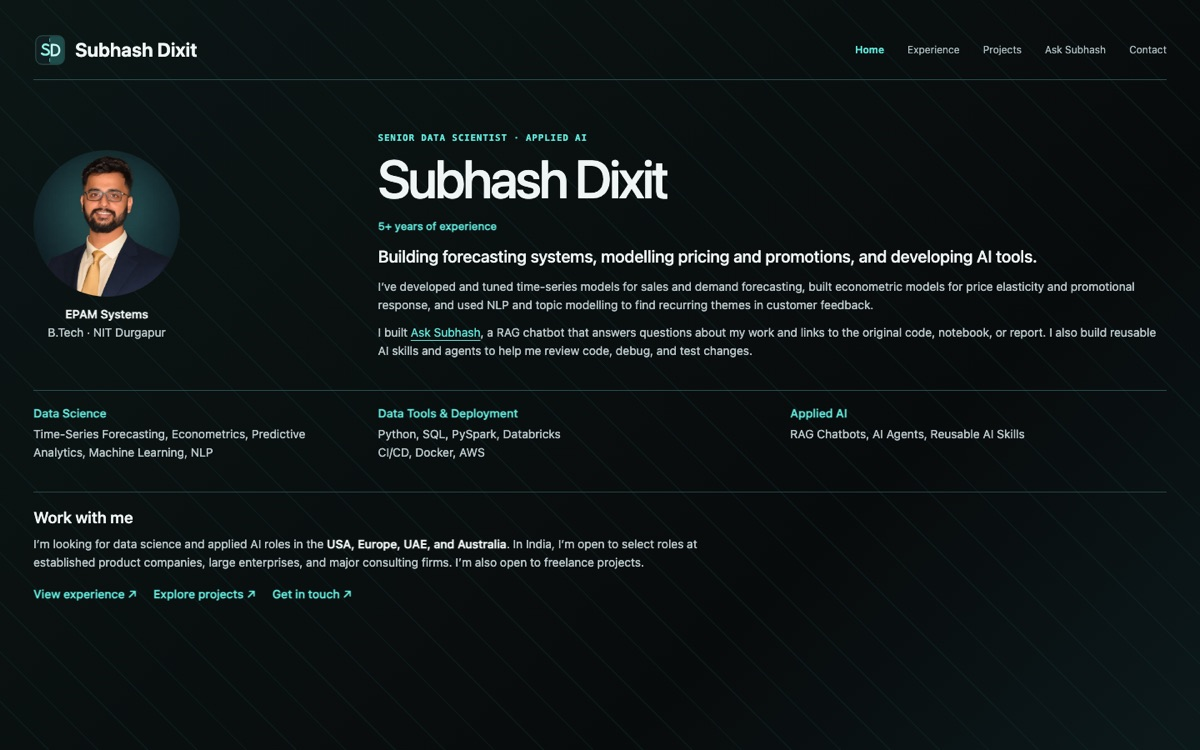
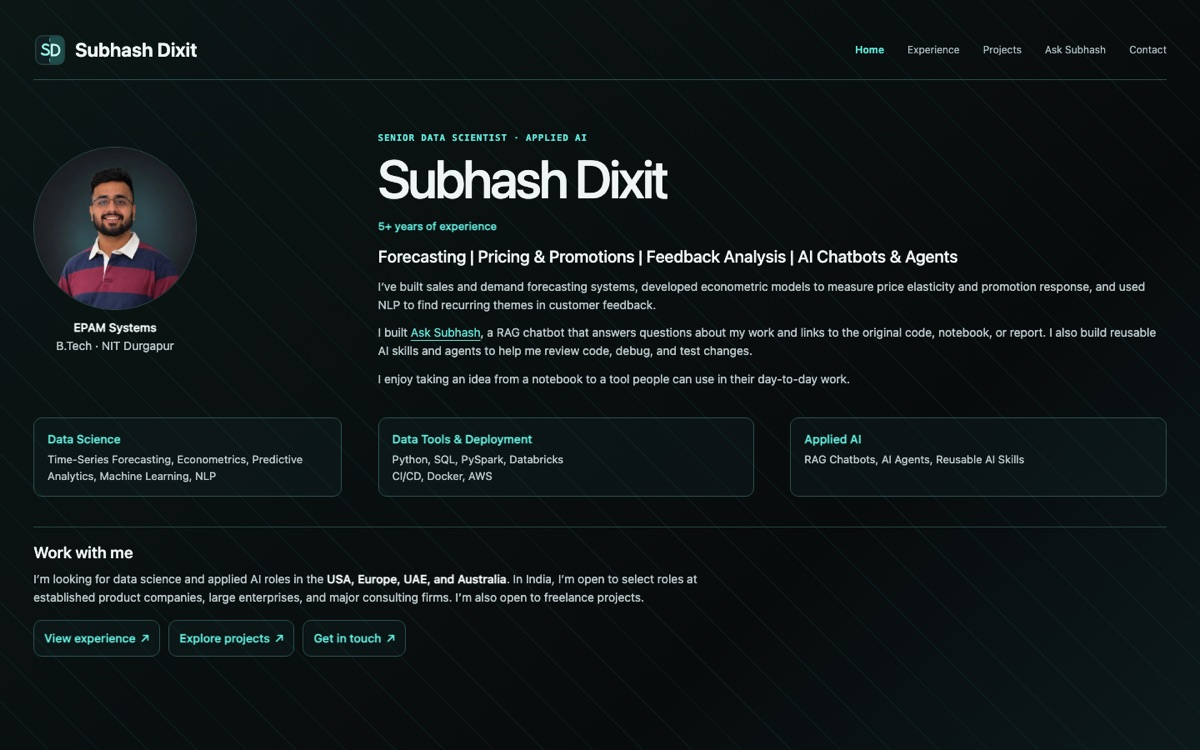
Publish reviewed homepage and update deployment guide

diff --git a/src/App.css b/src/App.css
@@ -63,7 +63,7 @@
   display: none;
 }
 
-@media (max-width: 1023px) {
+@media (width < 1024px) {
   .loop-header {
     position: relative;
     gap: 10px;
@@ -192,7 +192,7 @@ a.loop-card:hover {
 }
 
 .loop-intro.loop-home {
-  --home-portrait-size: 176px;
+  --home-portrait-size: 196px;
   display: grid;
   row-gap: clamp(24px, 3vw, 36px);
   padding-top: clamp(28px, 4.5vw, 62px);
@@ -256,6 +256,7 @@ a.loop-card:hover {
   width: 100%;
   height: auto;
   aspect-ratio: 1;
+  border: 1px solid var(--loop-border);
   border-radius: 50%;
   object-fit: cover;
 }
@@ -263,10 +264,18 @@ a.loop-card:hover {
 .loop-home-skills {
   grid-area: skills;
   display: grid;
-  grid-template-columns: repeat(auto-fit, minmax(min(100%, 210px), 1fr));
-  gap: 12px 28px;
-  padding-block: 16px 0;
-  border-top: 1px solid var(--loop-border);
+  gap: 12px;
+}
+
+.loop-home-skills > div,
+.loop-home-links a {
+  border: 1px solid var(--loop-border);
+  border-radius: 10px;
+  background: rgb(22 48 46 / 24%);
+}
+
+.loop-home-skills > div {
+  padding: 14px 16px;
 }
 
 .loop-home-skills dt {
@@ -278,6 +287,12 @@ a.loop-card:hover {
 .loop-home-skills dd,
 .loop-home-work p {
   color: var(--loop-muted);
+}
+
+.loop-home-skills dd {
+  font-size: 13px;
+  font-weight: 400;
+  line-height: 1.5;
 }
 
 .loop-home-work {
@@ -315,18 +330,34 @@ a.loop-card:hover {
   display: flex;
   flex-wrap: wrap;
   align-items: center;
-  gap: 10px 20px;
+  gap: 10px;
   margin-top: 16px;
   font-weight: 550;
 }
 
-.loop-home-links a:hover {
-  text-decoration: underline;
+.loop-home-links a {
+  display: inline-flex;
+  align-items: center;
+  gap: 6px;
+  min-height: 44px;
+  padding: 7px 12px;
+}
+
+.loop-home-links a:hover,
+.loop-home-links a:focus-visible {
+  border-color: var(--loop-accent);
+  background: rgb(22 48 46 / 50%);
+}
+
+@media (min-width: 640px) {
+  .loop-home-skills {
+    grid-template-columns: repeat(3, minmax(0, 1fr));
+  }
 }
 
 @media (width < 740px) {
   .loop-intro.loop-home {
-    --home-portrait-size: clamp(84px, 14vw, 104px);
+    --home-portrait-size: clamp(84px, 15vw, 110px);
     --home-portrait-gap: clamp(22px, 6vw, 44px);
     grid-template-areas:
       "identity profile"
@@ -384,6 +415,10 @@ a.loop-card:hover {
     grid-template-columns: clamp(150px, 22vw, 224px) minmax(0, 1fr);
     column-gap: clamp(48px, 7vw, 70px);
   }
+  .loop-home-profile {
+    align-self: start;
+    margin-top: 18px;
+  }
 }
 
 @media (min-width: 900px) {
@@ -404,13 +439,29 @@ a.loop-card:hover {
   }
 }
 
+@media (min-width: 1024px) {
+  .loop-home-summary {
+    container-type: inline-size;
+  }
+
+  .loop-home-summary > .loop-tagline {
+    font-size: clamp(14px, 2.4cqi, 20px);
+    white-space: nowrap;
+  }
+}
+
 @media (min-width: 900px) and (max-height: 820px) {
   .loop-shell:has(.loop-home) {
     padding-block: clamp(16px, 3vh, 28px) clamp(14px, 2.5vh, 24px);
   }
 
   .loop-intro.loop-home {
-    padding-top: clamp(22px, 4vh, 36px);
+    row-gap: 18px;
+    padding-top: clamp(20px, 3.5vh, 30px);
+  }
+
+  .loop-home-skills > div {
+    padding-block: 12px;
   }
 }
 

diff --git a/src/App.jsx b/src/App.jsx
@@ -6,7 +6,7 @@ import Experience from './components/Experience'
 import Skills from './components/Skills'
 import Projects from './components/Projects'
 import Contact from './components/Contact'
-import profileImage from './assets/profile-soft-teal.webp'
+import profileImage from './assets/profile-charcoal-teal.webp'
 import './App.css'
 
 const pages = [
@@ -33,17 +33,18 @@ function Home() {
           <p className="loop-home-tenure">5+ years of experience</p>
         </div>
         <div className="loop-home-summary">
-          <p className="loop-tagline">Building forecasting systems, modelling pricing and promotions, and developing AI tools.</p>
-          <p>I’ve developed and tuned time-series models for sales and demand forecasting, built econometric models for price elasticity and promotional response, and used NLP and topic modelling to find recurring themes in customer feedback.</p>
+          <p className="loop-tagline">Forecasting | Pricing &amp; Promotions | Feedback Analysis | AI Chatbots &amp; Agents</p>
+          <p>I’ve built sales and demand forecasting systems, developed econometric models to measure price elasticity and promotion response, and used NLP to find recurring themes in customer feedback.</p>
           <p id="home-projects">I built <a href="#ai-lab">Ask Subhash</a>, a RAG chatbot that answers questions about my work and links to the original code, notebook, or report. I also build reusable AI skills and agents to help me review code, debug, and test changes.</p>
+          <p>I enjoy taking an idea from a notebook to a tool people can use in their day-to-day work.</p>
         </div>
       </div>
 
       <div className="loop-home-profile">
-        <img className="loop-home-portrait" src={profileImage} alt="Subhash Dixit" width={176} height={176} />
+        <img className="loop-home-portrait" src={profileImage} alt="Subhash Dixit" width={196} height={196} />
         <div className="loop-home-affiliation">
           <p>EPAM Systems</p>
-                  <p>B.Tech · NIT&nbsp;Durgapur</p>
+          <p>B.Tech · NIT&nbsp;Durgapur</p>
         </div>
       </div>
 

diff --git a/README.md b/README.md
@@ -98,10 +98,20 @@ The Pages workflow runs `npm run lint` and `npm run build`. Before sharing a new
 
 ## Deployment
 
+GitHub Pages serves the portfolio at [subhashdixit.github.io](https://subhashdixit.github.io/). GitHub Actions installs locked dependencies, runs lint and the Vite build, and publishes `dist/` on updates to `main`. The private API repository is deployed separately using the Render Blueprint.
+
+| Setting | Where it is configured | Purpose |
+| --- | --- | --- |
+| `VITE_CHAT_API_URL` | GitHub Actions repository variable | Public Render origin for the chat and transcription endpoints. |
+| `PORTFOLIO_ORIGIN` | Render Blueprint | Exact GitHub Pages origin allowed to call the API from a browser. |
+| `EURI_API_KEY` | Render secret or local `.env.local` | Authenticates embedding, generation, and transcription requests. |
+
+The public site stores up to 12 recent chats in the visitor’s browser profile. The API receives the question and limited context for follow-ups. Voice input is uploaded for transcription when a visitor records and submits a question.
+
 ### Backend on Render
 
 1. Use the private `subhash-portfolio-api` repository with the backend, its shared `src/data` modules, dependency lockfile, and prebuilt LanceDB snapshot. Each backend update needs the matching versions of these files. Add the snapshot only to the private deployment repository.
-2. In Render, create a Blueprint from that repository. `render.yaml` specifies the free Node web service, the allowed frontend origin, and `/healthz`. Set a fresh `EURI_API_KEY` in the Render dashboard.
+2. In the [Render dashboard](https://dashboard.render.com/), choose **New → Blueprint**, grant Render access to the private repository, and select its `main` branch. `render.yaml` specifies the free Node web service, the allowed frontend origin, and `/healthz`. Set a fresh `EURI_API_KEY` in the Render dashboard.
 3. Verify `GET /healthz` on the assigned Render URL. The server checks that the three required tables can open at startup. To exercise the actual chat route, send a JSON question with the portfolio origin header.
 
 ```bash
@@ -117,7 +127,7 @@ curl -fsS https://YOUR-API.onrender.com/api/ask \
 2. In **Settings → Secrets and variables → Actions → Variables**, set `VITE_CHAT_API_URL` to the assigned Render HTTPS origin.
 3. Run **Verify and deploy GitHub Pages**. The deployed static bundle uses that origin for chat and voice requests. Open the live site and run the smoke checks above.
 
-Render free services sleep after inactivity, so the first chat or transcription request can take longer. Site pages and contact remain reachable during that startup. API usage also depends on the Euri account quota.
+With the API URL unset, Ask Subhash displays “The chat service is being connected.” Once configured, Render free services can sleep after inactivity, so the first chat or transcription request can take longer. The portfolio and contact form remain reachable during that startup. API usage also depends on the Euri account quota.
 
 ## Repository layout
 
